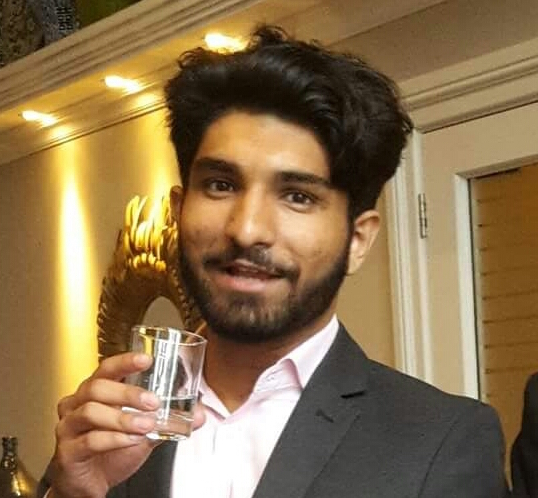
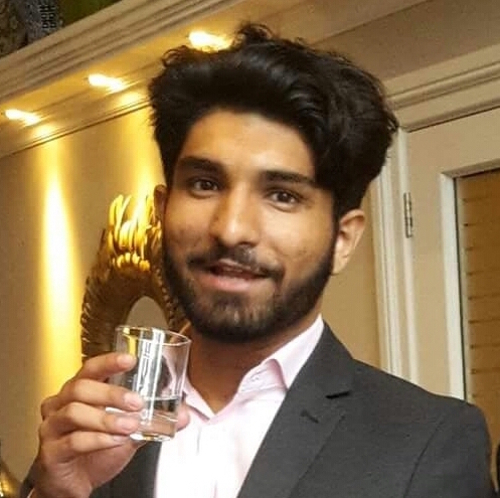
fewer tabs, some info filled in, pics set

diff --git a/home/templates/home/index.html b/home/templates/home/index.html
@@ -7,15 +7,16 @@
 
 
 {% block body %}
-    <!--carousel-->
+
+<!--
     <div id="carousel-example-generic" class="carousel slide" data-ride="carousel">
-  <!-- Indicators -->
+
   <ol class="carousel-indicators">
     <li data-target="#carousel-example-generic" data-slide-to="0" class="active"></li>
     <li data-target="#carousel-example-generic" data-slide-to="1"></li>
   </ol>
 
-  <!-- Wrapper for slides -->
+
   <div class="carousel-inner" role="listbox">
     <div class="item active">
       <img src="{% static 'home/images/concertbg.jpg' %}" alt="bird">
@@ -32,7 +33,7 @@
 
   </div>
 
-  <!-- Controls -->
+
   <a class="left carousel-control" href="#carousel-example-generic" role="button" data-slide="prev">
     <span class="glyphicon glyphicon-chevron-left" aria-hidden="true"></span>
     <span class="sr-only">Previous</span>
@@ -42,19 +43,31 @@
     <span class="sr-only">Next</span>
   </a>
 </div>
+-->
+
+    <div class="container-fluid">
+        <div class="jumbotron">
+            <img class="img-responsive" src="{% static 'home/images/carousel1.png' %}"
+        </div>
+    </div>
+
+
 
 <!--welcome block-->
         <div class="container">
         <h1 class="page-header center-block">
-            Welcome
+            What we believe
         </h1>
         <p>
-            Lorem ipsum dolor sit amet, consectetur adipiscing elit. Cras fringilla ex ut libero convallis dictum. Phasellus vel suscipit ante. Morbi eget justo molestie, iaculis lorem fringilla, feugiat lacus. Donec imperdiet lacus eget tellus egestas, id maximus massa imperdiet. Morbi leo velit, tempor in nisi et, hendrerit hendrerit velit. Sed pulvinar nec lectus vitae condimentum. Sed pulvinar dui massa, sed laoreet elit vulputate varius. Nullam aliquet lacus in ipsum vestibulum, eget molestie turpis eleifend. Vestibulum consequat lacus et magna dictum, non pulvinar mauris porttitor. Aenean eget metus sapien. Phasellus sed tortor a mi faucibus feugiat et laoreet orci. Proin eget vehicula erat. Praesent purus eros, feugiat sit amet erat ut, rutrum sagittis mi. Nullam mauris massa, faucibus vel posuere nec, feugiat quis lorem. Integer tincidunt metus nec erat vulputate sagittis. Aliquam ac erat iaculis, dictum enim nec, semper velit.
+            On a fundamental level, we believe that every child deserves a first class education, one which provides them with the opportunity to both grow and develop academically, and as individuals. The institution your child attends will to a great degree define the quality of teaching they receive, their secondary school experience and influence the opportunities made available to them in the future. Acknowledging the significance of these exams allows us to ensure that students are sufficiently prepared, well in advance, acquainted to the structure of these examinations and comfortable performing under timed conditions.
+        </p>
+        <p>
+            At Only 11+, we incorporate a computer algorithm to identify the areas on which each student requires immediate review. The algorithm enables us to set exercises tailored to the performance of each individual, so that their weaker areas are developed into future strong points. This practice coupled with our regular review sessions encourages students to master all examination topics.Through analysing the rate of improvement on our classroom tests and homework exercises, we will be able to identify the manner in which your child learns most efficiently. We appreciate that not all children learn identically and therefore, we employ the teaching methods that we find most effective for each student.
         </p>
         </div>
     </div>
 
-<!--info block-->
+<!--info block
     <div class="container-fluid">
     <div class="container">
         <div class="row">
@@ -73,8 +86,10 @@
         </div>
 
     </div>
+-->
 
 <!--our approach section-->
+<!--
 <div class="container">
     <h1 class="page-header">Header for next part</h1>
     <div class="row top-buffer vertical-center">
@@ -107,5 +122,6 @@
         </div>
     </div>
 </div>
+-->
 
 {% endblock %}

diff --git a/home/templates/home/findus.html b/home/templates/home/findus.html
@@ -15,11 +15,11 @@
 <div class="container">
     <h1 class="page-header text-center">Find us</h1>
     <div class="row">
-        <div class="col-xs-12 col-sm-7">
-            <p>Lorem ipsum dolor sit amet, consectetur adipiscing elit. Vivamus pretium faucibus arcu, sit amet venenatis quam hendrerit sodales. Aenean gravida eros id quam cursus, gravida finibus mauris mattis. Aliquam sodales magna ac porttitor egestas. Vestibulum ut massa efficitur, placerat magna quis, sollicitudin ex. Nunc ut bibendum est, eu finibus massa. Fusce fermentum in nunc in scelerisque. Cras et rutrum quam. Proin tristique rhoncus commodo. Praesent euismod, libero quis suscipit mattis, enim ligula mollis ex, in iaculis quam erat nec diam. Mauris id tristique ligula, non hendrerit sapien. Donec hendrerit metus eu imperdiet cursus. Pellentesque sagittis condimentum orci in rhoncus. </p>
+        <div class="col-xs-12 col-sm-5">
+            <p>Please do not hesitate to contact us by email or phone, and we will endeavour to get back within 1 working day. Additionally, should you have any concerns about your child’s education or progress, one of our team will be more than happy to personally discuss details with you.</p>
         </div>
-        <div class="col-sm-5 hidden-xs">
-            <img class="img-circle img-responsive" src="{% static 'home/images/earth.jpg' %}">
+        <div class="col-sm-7 hidden-xs">
+            <img class="img-rounded img-responsive" src="{% static 'home/images/challengehouse.jpg' %}">
         </div>
     </div>
 </div>
@@ -54,18 +54,21 @@
             <h2 class="page-header">Contact Us</h2>
             <address>
                 <strong>Address</strong> <br>
-                Some Road<br>
-                Some Town <br>
-                Some Postcode <br>
+                Challenge House<br>
+                616 Mitcham Rd<br>
+                Croydon<br>
+                CR0 3AA
             </address>
             <address>
                 <strong>Email</strong><br>
-                <a href="mailto:#">first.last@example.com</a>
+                <a href="mailto:#">info@just11plus.oc.uk</a>
             </address>
+            <!--
             <address>
                 <strong>Phone Number</strong><br>
                 123456789
             </address>
+            -->
             <!-- TODO - html for emailing
             <form role="form" action="" method="post">
                 {% csrf_token %}

diff --git a/home/templates/home/base.html b/home/templates/home/base.html
@@ -39,14 +39,14 @@
     <div class="collapse navbar-collapse" id="bs-example-navbar-collapse-1">
       <ul class="nav navbar-nav">
         <li class="{% if nbar == 'home' %}active{% endif %}"><a href="{% url 'index' %}">Home</a></li>
-        <li class="{% if nbar == 'aboutus' %}active{% endif %}"><a href="{% url 'aboutus' %}">Establishment</a></li>
+        <!--<li class="{% if nbar == 'aboutus' %}active{% endif %}"><a href="{% url 'aboutus' %}">Establishment</a></li>-->
+        <li class="{% if nbar == 'philosophy' %}active{% endif %}"><a href="{% url 'philosophy' %}">Philosophy</a></li>
         <li class="{% if nbar == 'meettheteam' %}active{% endif %}"><a href={%  url 'meettheteam' %}>Meet the Team</a></li>
         <!--<li class="{% if nbar == 'pricing' %}active{% endif %}"><a href="{% url 'pricing' %}">Pricing</a></li>-->
-        <li class="{% if nbar == 'bookings' %}active{% endif %}"><a href="{% url 'bookings' %}">Bookings</a></li>
-        <li class="{% if nbar == 'philosophy' %}active{% endif %}"><a href="{% url 'philosophy' %}">Philosophy</a></li>
-        <li class="{% if nbar == 'whatis11plus' %}active{% endif %}"><a href="{% url 'whatis11plus' %}">What is 11+</a></li>
+        <!--<li class="{% if nbar == 'bookings' %}active{% endif %}"><a href="{% url 'bookings' %}">Bookings</a></li>-->
+        <!--<li class="{% if nbar == 'whatis11plus' %}active{% endif %}"><a href="{% url 'whatis11plus' %}">What is 11+</a></li>-->
         <li class="{% if nbar == 'findus' %}active{% endif %}"><a href="{% url 'findus' %}">Find us</a></li>
-        <li class="{% if nbar == 'testimonials' %}active{% endif %}"><a href="{% url 'testimonials' %}">Testimonials</a></li>
+        <!--<li class="{% if nbar == 'testimonials' %}active{% endif %}"><a href="{% url 'testimonials' %}">Testimonials</a></li>-->
 
       </ul>
     </div>
@@ -60,11 +60,11 @@
 <div class="container-fluid top-buffer">
 
     <div class="text-center" style="background-color: lightgray">
-        LOGO<br>
-        copyright<br>
-        fancy statement<br>
-        Address<br>
-        Phone number<br>
+        Challenge House<br>
+        616 Mitcham Rd<br>
+        Croydon<br>
+        CR0 3AA<br><br>
+        info@just11plus.co.uk
     </div>
 </div>
 

diff --git a/home/templates/home/meettheteam.html b/home/templates/home/meettheteam.html
@@ -11,20 +11,20 @@
     </div>
     <h2 class="page-header">Our teachers</h2>
     <div class="row">
-        <div class="col-xs-12 col-sm-6 col-lg-3">
-            <img class="img-circle img-responsive" src="{% static 'home/images/earth.jpg' %}">
+        <div class="col-xs-12 col-lg-3">
+            <img class="img-circle img-responsive center-block" src="{% static 'home/images/hasibdp.jpeg' %}">
             <p class="top-buffer text-center">Lorem ipsum dolor sit amet, consectetur adipiscing elit. Cras fringilla ex ut libero convallis dictum.</p>
         </div>
-        <div class="col-xs-12 col-sm-6 col-lg-3">
-            <img class="img-circle img-responsive" style="max-height:220px; max-width:220px;" src="{% static 'home/images/amirdp.jpeg' %}">
+        <div class="col-xs-12 col-lg-3">
+            <img class="img-circle img-responsive center-block" src="{% static 'home/images/amirdp.jpeg' %}">
             <p class="top-buffer text-center">Lorem ipsum dolor sit amet, consectetur adipiscing elit. Cras fringilla ex ut libero convallis dictum.</p>
         </div>
-        <div class="col-xs-12 col-sm-6 col-lg-3">
-            <img class="img-circle img-responsive" style="max-height:220px" src="{% static 'home/images/azhardp.jpeg' %}">
+        <div class="col-xs-12 col-lg-3">
+            <img class="img-circle img-responsive center-block" src="{% static 'home/images/azhardp.jpeg' %}">
             <p class="top-buffer text-center">Lorem ipsum dolor sit amet, consectetur adipiscing elit. Cras fringilla ex ut libero convallis dictum.</p>
         </div>
-        <div class="col-xs-12 col-sm-6 col-lg-3">
-            <img class="img-circle img-responsive" src="{% static 'home/images/earth.jpg' %}">
+        <div class="col-xs-12 col-lg-3">
+            <img class="img-circle img-responsive center-block" src="{% static 'home/images/vigneshdp.jpg' %}">
             <p class="top-buffer text-center">Lorem ipsum dolor sit amet, consectetur adipiscing elit. Cras fringilla ex ut libero convallis dictum.</p>
         </div>
     </div>

diff --git a/home/templates/home/philosophy.html b/home/templates/home/philosophy.html
@@ -4,7 +4,9 @@
 {% block title %}Philosophy{% endblock %}
 
 
-
-
 {% block body %}
+    <div class="container">
+    <h1 class="page-header">Our Teaching Philosophy</h1>
+    <p>Our teaching philosophy entails instilling a complete, comprehensive understanding of our curriculum and of all the examinable topics students may face in each test. We appreciate that each student’s needs  are unique and therefore, our learning and revision packs will be tailored to the performance of each individual. These packs facilitate greater development of the areas in which the student has performed less highly, providing a greater foundation of understanding. We have found that the performance of students in the 11+ examinations, particularly in selective eligibility exams, dramatically improve when students have a more thorough understanding of the topics that they will be examined on. Classes on operating under timed conditions, common errors and exam structure will also feature in the curriculum, culminating in mock exams during the final few weeks.  At Only 11+, we strive to ascertain the strengths and weaknesses of each student, complementing their small group tuition with individual exercises to ensure exceptional exam performance. We aim to equip students with the understanding to answer any given exam question to the highest degree.</p>
+    </div>
 {% endblock %}

diff --git a/home/urls.py b/home/urls.py
@@ -7,7 +7,7 @@ urlpatterns = [
     url(r'^meettheteam$', views.meettheteam, name="meettheteam"),
     url(r'^pricing', views.pricing, name="pricing"),
     url(r'^bookings', views.bookings, name="bookings"),
-    url(r'^philosophy', views.philosophy, name="philosophy"),
+    url(r'^philosophy$', views.philosophy, name="philosophy"),
     url(r'^whatis11plus', views.whatis11plus, name="whatis11plus"),
     url(r'^findus', views.findus, name="findus"),
     url(r'^testimonials', views.testimonials, name="testimonials"),
